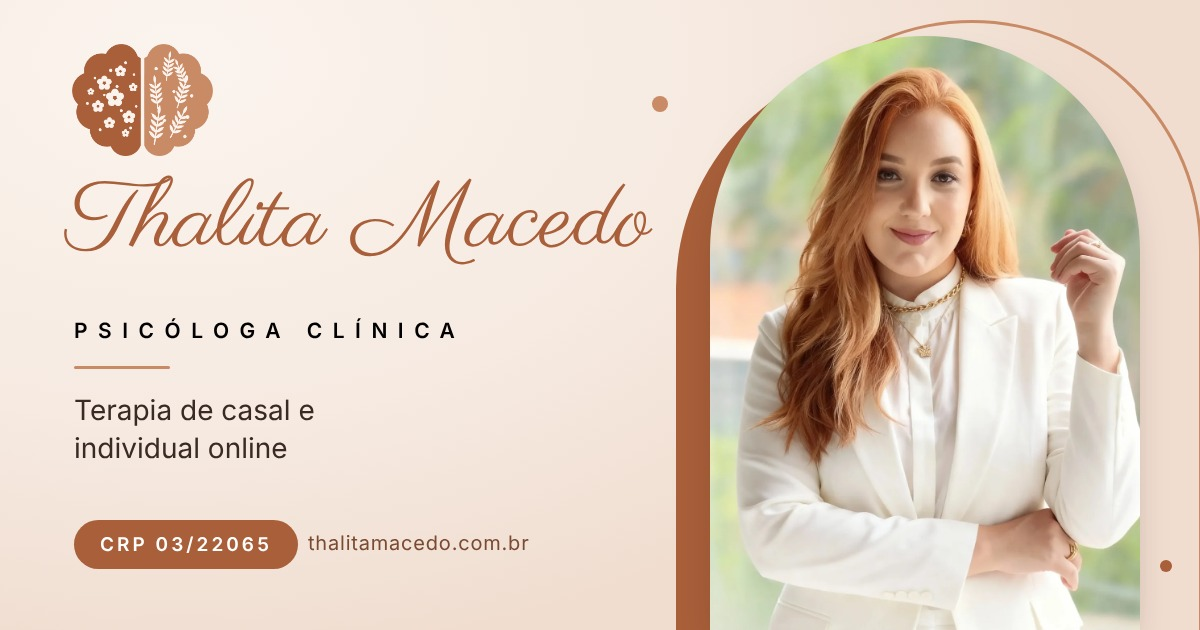
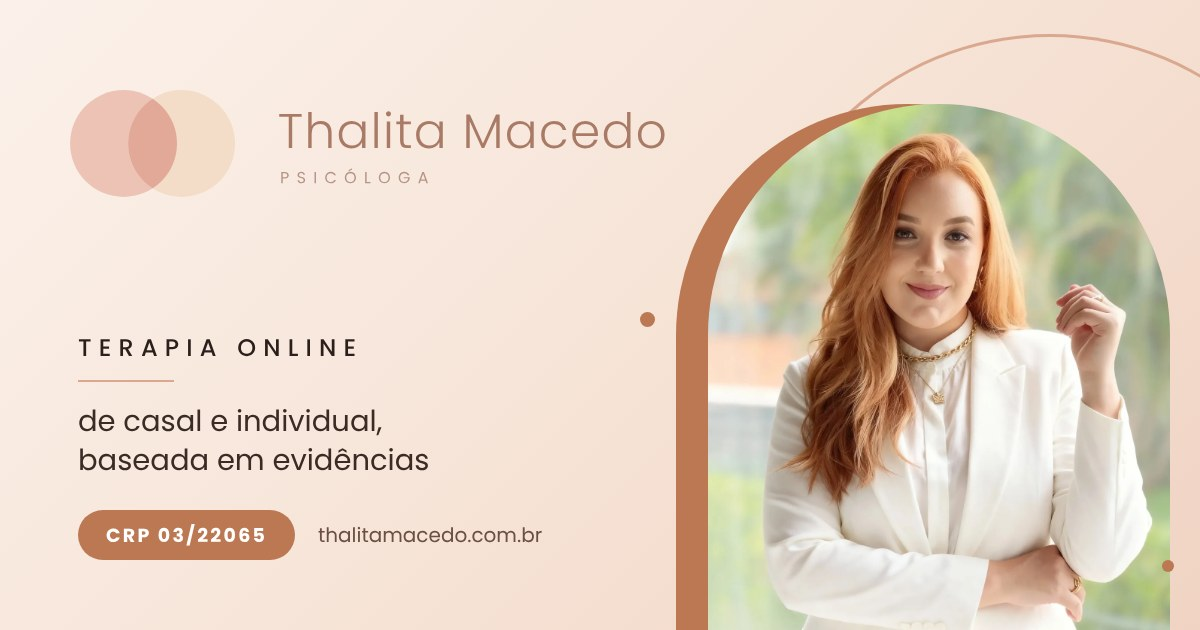
Add files via upload

diff --git a/index.html b/index.html
@@ -14,15 +14,17 @@
   <meta property="og:locale" content="pt_BR">
   <meta property="og:title" content="Thalita Macedo | Psicóloga clínica e terapeuta de casais">
   <meta property="og:description" content="A Terapia como meio para uma vida que vale a pena ser vivida. Atendimento online, baseado em evidências.">
-  <meta property="og:image" content="https://thalitamacedo.com.br/img/og.jpg">
+  <meta property="og:image" content="https://thalitamacedo.com.br/img/og.jpg?v=2">
+  <meta property="og:image:type" content="image/jpeg">
   <meta property="og:image:width" content="1200">
   <meta property="og:image:height" content="630">
-  <meta property="og:image:alt" content="Psicóloga Thalita Macedo, CRP 03/22065. Terapia de casal e individual online.">
+  <meta property="og:image:alt" content="Thalita Macedo, psicóloga CRP 03/22065. Terapia de casal e individual online.">
   <meta property="og:site_name" content="Thalita Macedo · Psicóloga">
   <meta name="twitter:card" content="summary_large_image">
   <meta name="twitter:title" content="Thalita Macedo | Psicóloga clínica e terapeuta de casais">
   <meta name="twitter:description" content="Terapia de casal e individual online, baseada na TCC. CRP 03/22065.">
-  <meta name="twitter:image" content="https://thalitamacedo.com.br/img/og.jpg">
+  <meta name="twitter:image:alt" content="Thalita Macedo, psicóloga CRP 03/22065. Terapia de casal e individual online.">
+  <meta name="twitter:image" content="https://thalitamacedo.com.br/img/og.jpg?v=2">
   <meta property="og:url" content="https://thalitamacedo.com.br/">
 
   <link rel="preconnect" href="https://fonts.googleapis.com">
